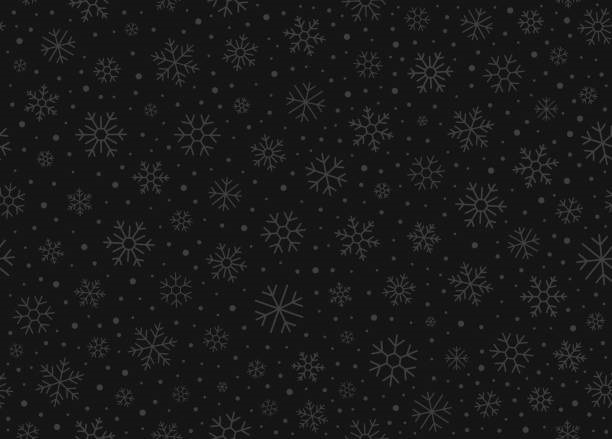
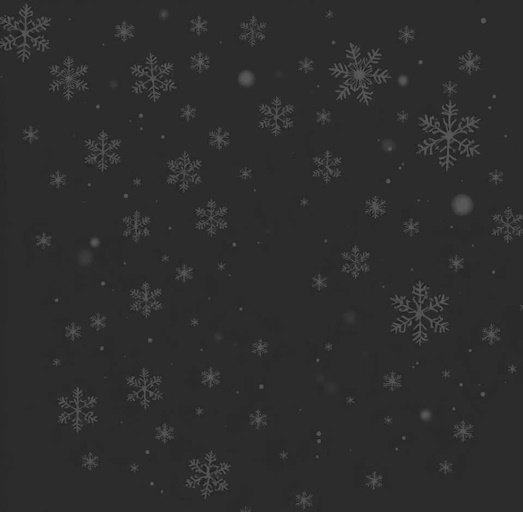
Tweak decorations

diff --git a/src/components/Navbar.js b/src/components/Navbar.js
@@ -14,6 +14,7 @@ import Brightness4Icon from "@material-ui/icons/Brightness4";
 import Brightness7Icon from "@material-ui/icons/Brightness7";
 import VolumeOffIcon from "@material-ui/icons/VolumeOff";
 import VolumeUpIcon from "@material-ui/icons/VolumeUp";
+import { makeStyles } from "@material-ui/core/styles";
 
 import firebase from "../firebase";
 import { UserContext, SettingsContext } from "../context";
@@ -27,6 +28,16 @@ import KeyboardLayoutDialog from "./KeyboardLayoutDialog";
 import AccountOptionsDialog from "./AccountOptionsDialog";
 import hatImage from "../assets/hat.png";
 
+const useStyles = makeStyles((theme) => ({
+  treeIcon: {
+    verticalAlign: "top",
+    fontSize: "0.9em",
+    [theme.breakpoints.up("md")]: {
+      marginLeft: "-0.2em",
+    },
+  },
+}));
+
 function Navbar({
   themeType,
   handleChangeTheme,
@@ -35,6 +46,7 @@ function Navbar({
 }) {
   const user = useContext(UserContext);
   const settings = useContext(SettingsContext);
+  const classes = useStyles();
   const [anchorEl, setAnchorEl] = useState(null);
   const [changeName, setChangeName] = useState(false);
   const [changeUserColor, setChangeUserColor] = useState(false);
@@ -88,15 +100,7 @@ function Navbar({
           <InternalLink underline="none" color="inherit" to="/">
             Set with Friends
           </InternalLink>
-          <span
-            style={{
-              verticalAlign: "text-bottom",
-              fontSize: "smaller",
-              marginLeft: "-0.2em",
-            }}
-          >
-            🎄
-          </span>
+          <span className={classes.treeIcon}>🎄</span>
         </Typography>
         <Typography
           variant="subtitle1"

diff --git a/src/themes.js b/src/themes.js
@@ -58,7 +58,6 @@ export const darkTheme = createTheme({
       "@global": {
         body: {
           backgroundImage: `url("${snowDarkImage}")`,
-          backgroundSize: "25%",
         },
       },
     },
@@ -107,7 +106,6 @@ export const lightTheme = createTheme({
       "@global": {
         body: {
           backgroundImage: `url("${snowLightImage}")`,
-          backgroundSize: "25%",
         },
       },
     },
